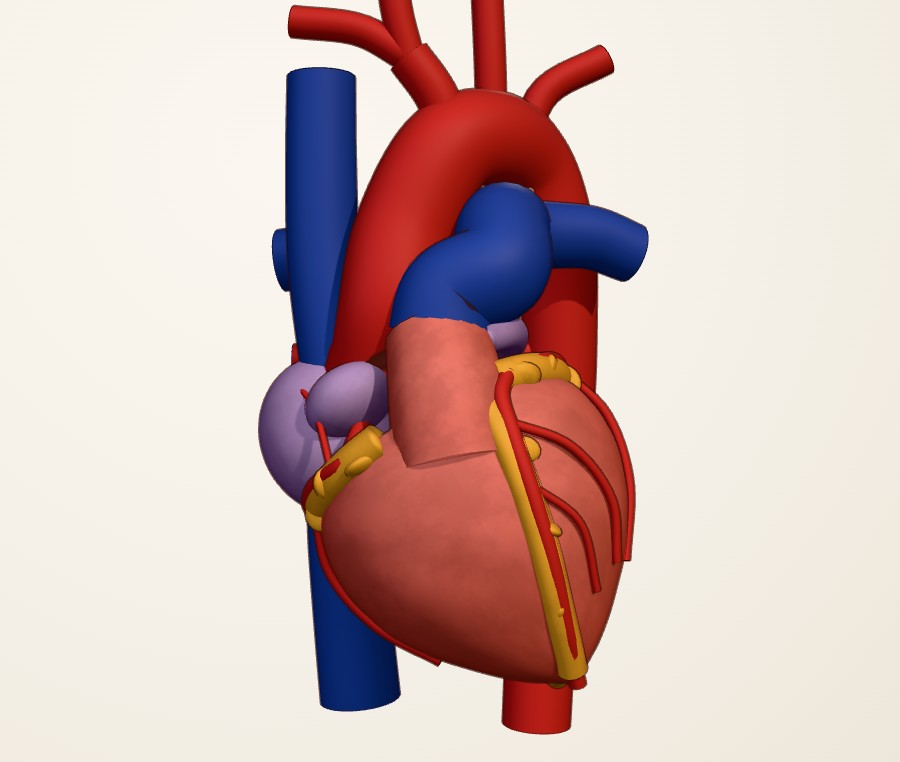
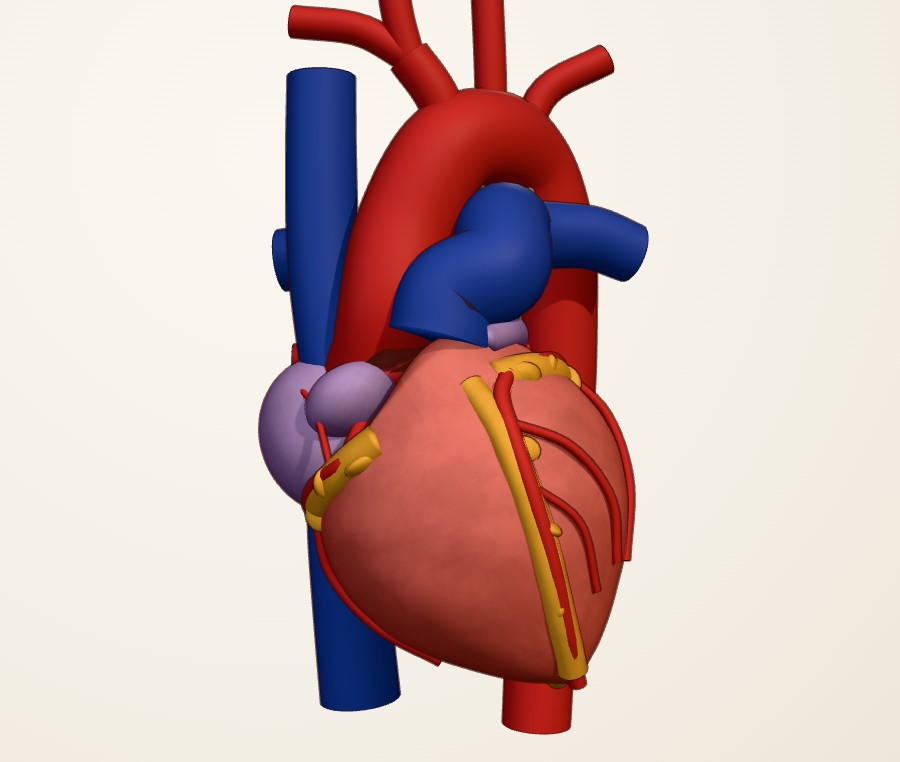
Compte rendu DA finalisé et captures « après » rafraîchies

Changed region(s): [[0.4044, 0.3924, 0.6533, 0.6339]]

diff --git a/docs/relectures/2026-10-11-da-sublimation.md b/docs/relectures/2026-10-11-da-sublimation.md
@@ -41,7 +41,7 @@ Après : le lavis **fonce et sature** (mélange vers `c²/max(c)` à 45 %, comme
 **Texture aquarelle (`watercolorTexture`)** — avant : 256 px, 3 octaves (4, 9, 21), amplitude 0,93–1,00, une seule texture partagée sans réglage d'échelle.
 Après : 512 px, 5 octaves (3, 6, 13, 37, 83 : plages larges + nuages + grain de pigment), **contraste ré-étiré** (×2,6 autour du milieu) puis amplitude 0,82–1,03, anisotropie 4, **répétition par géométrie** (`repeat`) : masse 7 × 3, oreillettes 2 × 1, endocarde 2 × 2, graisse 1 × 3, piliers 1 × 2, capuchons de coupe 14 × 14. La fonction est exportée pour les capuchons dans `app.js`.
 
-**Dégradé peint par couleurs de sommets (`tintGradient`, nouveau)** — la masse ventriculaire reçoit un attribut `color` (aucun sommet déplacé) : base et face antérieure du VD claires (×1,06), charge vers l'apex (−0,16·t²) et la face postéro-gauche (−0,08), plus un bruit à 2 %. Le facteur agit davantage sur vert/bleu que sur rouge : la chair qui fonce rougit au lieu de grisonner. L'infundibulum, qui partage `myoMat`, reçoit une teinte constante de base (×1,04). `myoMat.vertexColors = true`.
+**Dégradé peint par couleurs de sommets (`tintGradient`, nouveau)** — la masse ventriculaire reçoit un attribut `color` (aucun sommet déplacé) : base et face antérieure du VD claires (×1,06), charge vers l'apex (−0,16·t²) et la face postéro-gauche (−0,08), plus un bruit à 2 %. Le facteur agit davantage sur vert/bleu que sur rouge : la chair qui fonce rougit au lieu de grisonner. `myoMat.vertexColors = true`. Note : pendant cette passe, une modification concurrente (hors périmètre DA) a fondu l'infundibulum dans la géométrie de la masse (`conusLift`) à la place du tube rapporté ; le cône artériel hérite donc automatiquement du dégradé et de la texture, et la « couture » visible sur les captures « avant » a disparu (vérifié sur les captures « après » finales).
 
 **Matériaux (`mkMat`)** :
 
@@ -128,19 +128,18 @@ Nouvelle icône « planche » : silhouette anatomique au trait d'encre `#2b2420`
   un `WebGLRenderTarget` avec stencil dans l'`EffectComposer`. À envisager dans une passe dédiée, bureau seulement.
 - **Hachures sur la tranche de coupe** : écartées (risque de moiré à l'échelle des capuchons et sur mobile) ;
   la texture aquarelle suffit à casser l'aplat.
-- **Jointure infundibulum / masse** : le cône artériel reste visible comme un bloc légèrement plus clair en vue de
-  face : c'est une limite de la géométrie (tube posé sur la masse), hors périmètre de cette passe.
+- **Liseré d'encre au bord des capuchons de coupe** : non fait (voir recommandations).
 
 ## 5. Recommandations pour la suite
 
 1. Mesurer les temps d'image sur le portable et la tablette cibles (`renderer.info`, rAF) ; si besoin, réduire la
    carte d'ombre à 1024² sous `(pointer: coarse)`.
-2. Fondre l'infundibulum dans la masse (profil de la `ParametricGeometry` prolongé vers la valve pulmonaire) lors
-   de la prochaine passe anatomique — cela supprimera la seule « couture » visible.
-3. Aligner `js/data.en.js` sur les six jetons de couleur.
-4. Étudier une AO en calques (bureau uniquement) une fois la coupe stabilisée.
-5. Pour la coupe, envisager un liseré d'encre au bord des capuchons (second plan stencil légèrement décalé, encre
+2. Aligner `js/data.en.js` sur les six jetons de couleur.
+3. Étudier une AO en calques (bureau uniquement) une fois la coupe stabilisée.
+4. Pour la coupe, envisager un liseré d'encre au bord des capuchons (second plan stencil légèrement décalé, encre
    à 40 %) : c'est le dernier détail qui sépare la tranche actuelle d'une planche imprimée.
+5. Les lobules de graisse restent des ellipsoïdes distincts ; une passe de modelage (fusion en coussinet continu le
+   long du sillon, hors tolérance ±20 % de cette passe) rapprocherait encore la graisse des planches.
 
 ## 6. Suite immédiate (après la passe DA)
 
